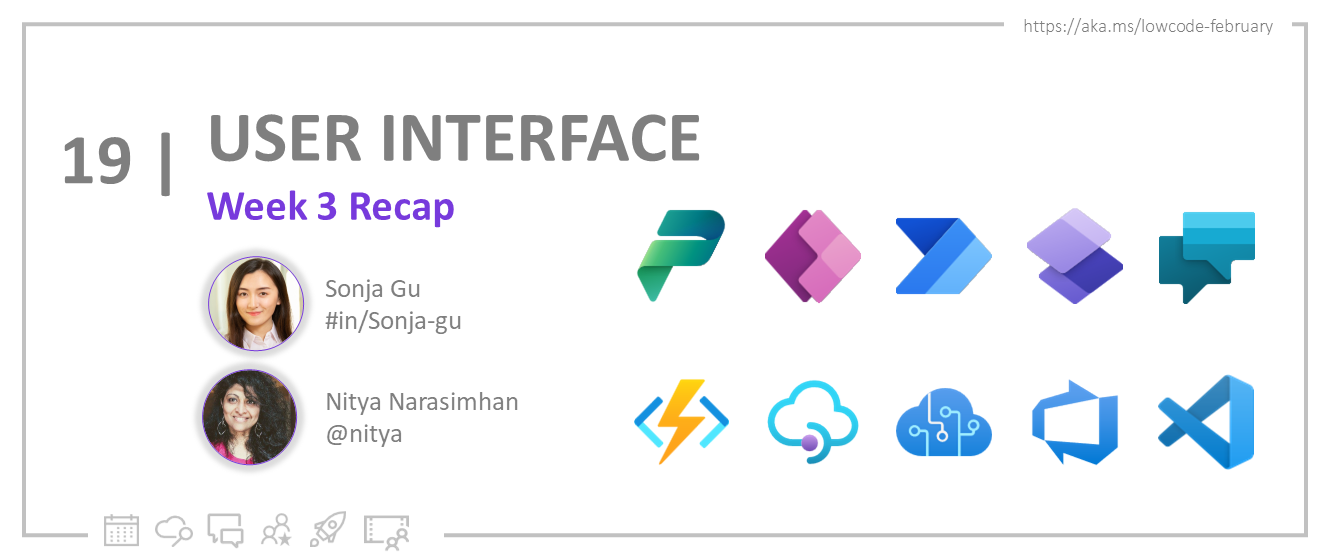
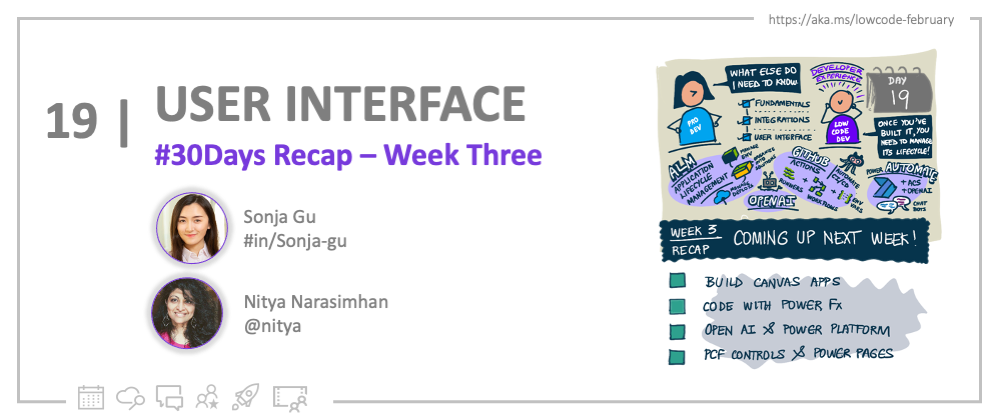
Updated: Week 3 Recap

diff --git a/website/blog/2023-lcf/2023-02-19/feb19.md b/website/blog/2023-lcf/2023-02-19/feb19.md
@@ -38,13 +38,15 @@ Welcome to `Day 19` of #30DaysOfLowCode!
  * **Look Ahead**: Are you ready for the Developer Experience Week?!
  * **Resources**: Explore the [**Low Code February Collection**](https://aka.ms/lowcode-february/collection)
 
-![Speaker Card for Feb 12](./../../../static/img/og/30-19.png)
+![Speaker Card for Feb 19](./../../../static/img/og/30-19.png)
 
-## **Look Back**: Week 2 Recap
+## **Look Back**: Week 3 Recap
 
 Hey there! Week 3 is a wrap! We had a blast exploring the user interface of Power Apps together. First up, we took a deep dive into canvas apps 101 and got familiar with the low code programming language - Fx. We also got to play around with the PCF (Power Apps Component Framework) control and learned how to build stunning, eye-catching front-ends. To top it off, we even built a PCF control together! 
 
 In our ZeroToHero blog post, we provided a detailed step-by-step guide on how to create a highly flexible and interactive app using the powerful combination of OpenAI, API Management, and Power Apps. Last but not the least, we also discussed how professional developers can take advantage of Power Pages to quickly build enterprise-ready internal and external websites. 
+
+![Roadmap Image for Week 3](./../../../static/img/og/30-roadmap-week3.png)
 
 Here's what we've covered this week:
 
